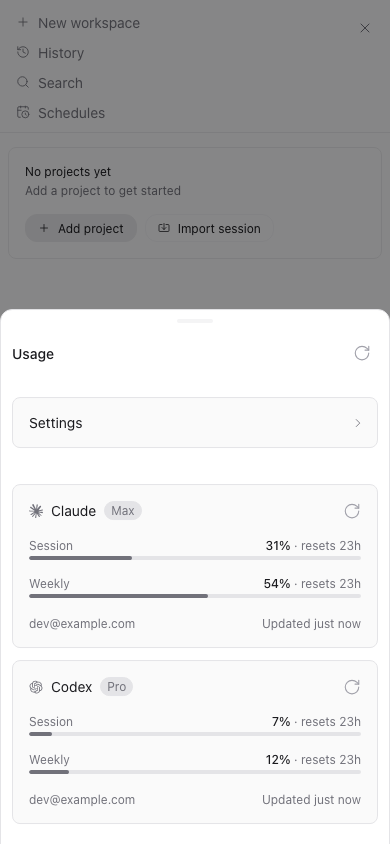
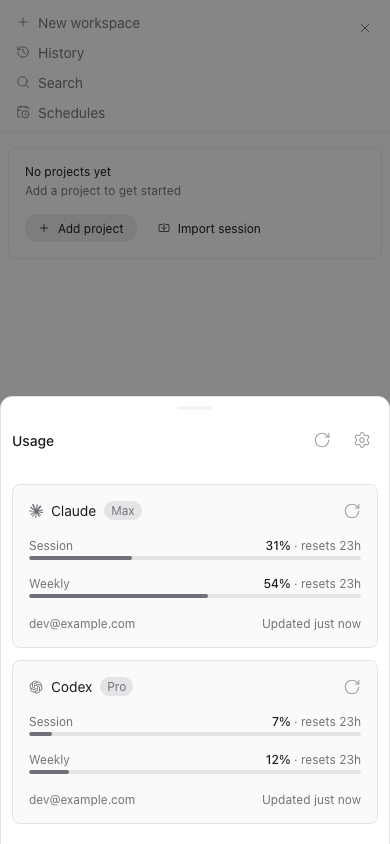
fix(usage): restore settings cog with a fitted popover and compact sheet
Keep shared Usage preferences in the title controls on every surface. Settings rows use the menu surface directly, avoiding the trailing margin and duplicate card border from the page layout.

Changed region(s): [[0.0, 0.3389, 1.0, 0.5545]]

diff --git a/packages/app/e2e/browser/usage-screen.spec.ts b/packages/app/e2e/browser/usage-screen.spec.ts
@@ -27,6 +27,8 @@ import {
   expectPinnedUsage,
   pinRow,
   openUsageOptions,
+  closeUsageOptions,
+  expectUsageOptionsFitContent,
   showUsageAs,
   refreshAllUsage,
   togglePin,
@@ -243,7 +245,7 @@ test.describe("usage screen", () => {
       page.getByTestId(`usage-host-${serverId}`).getByText(/^Update .+ to see usage$/),
     ).toBeVisible({ timeout: 10_000 });
     await qaScreenshot(page, "phase7-usage-update-host");
-    await expect(page.getByTestId("usage-options-toggle")).toHaveCount(0);
+    await expect(page.getByTestId("usage-options-menu")).toHaveCount(0);
     await expect(page.getByTestId("usage-refresh-all")).toHaveCount(0);
     expect(usage.listRequests()).toHaveLength(0);
   });
@@ -426,7 +428,7 @@ for (const theme of ["light", "dark"] as const) {
     desktop: { width: 1440, height: 900 },
     compact: { width: 390, height: 844 },
   })) {
-    test(`inline Usage Settings ${size} ${theme}`, async ({ page }, testInfo) => {
+    test(`Usage Settings cog ${size} ${theme}`, async ({ page }, testInfo) => {
       test.setTimeout(120_000);
       await page.addInitScript((value) => {
         const key = "@paseo:app-settings";
@@ -440,42 +442,24 @@ for (const theme of ["light", "dark"] as const) {
       await page.goto("/usage");
       const screen = page.getByTestId(`usage-host-${getServerId()}`);
       await expect(screen.getByText("Claude", { exact: true })).toBeVisible({ timeout: 30_000 });
-      const settings = screen.getByRole("button", { name: "Settings", exact: true });
-      const chevron = settings.locator("svg").locator("../..");
+      const settings = page.getByTestId("usage-options-menu");
       await expect(settings).toHaveAccessibleName("Settings");
-      await expect(settings).toHaveAttribute("aria-expanded", "false");
-      await expect(chevron).toHaveCSS("transform", "none");
-      await expect(screen.getByTestId("usage-display-used")).toHaveCount(0);
-      await expect(
-        pinRow(screen, "Claude", "Weekly").getByTestId("usage-pin-glyph-pinned"),
-      ).toHaveCSS("opacity", "1");
-      await captureSettingsState(page, testInfo, `${size}-${theme}-collapsed`);
+      await expect(page.getByTestId("usage-display-used")).toHaveCount(0);
+      await captureSettingsState(page, testInfo, `${size}-${theme}-cog`);
 
-      await togglePin(screen, "Claude", "Weekly");
-      await page.mouse.move(0, viewport.height - 1);
-      await expect(
-        pinRow(screen, "Claude", "Weekly").getByTestId("usage-pin-glyph-unpinned"),
-      ).toHaveCSS("opacity", "1");
       await openUsageOptions(page);
-      await expect(settings).toHaveAttribute("aria-expanded", "true");
-      await expect(chevron).toHaveCSS("transform", "matrix(0, 1, -1, 0, 0, 0)");
-      await expect(screen.getByText("Pinned windows show in the sidebar footer")).toBeVisible();
-      await expect(screen.getByTestId("usage-display-used")).toHaveAttribute(
-        "aria-selected",
-        "true",
-      );
-      await settings.blur();
-      await page.mouse.move(0, viewport.height - 1);
-      await captureSettingsState(page, testInfo, `${size}-${theme}-expanded`);
+      await expectUsageOptionsFitContent(page);
+      await expect(page.getByText("Pinned windows show in the sidebar footer")).toBeVisible();
+      await expect(page.getByTestId("usage-display-used")).toHaveAttribute("aria-selected", "true");
+      await captureSettingsState(page, testInfo, `${size}-${theme}-settings`);
       await showUsageAs(page, "remaining");
       await expect(screen.getByText("69% left")).toBeVisible();
       await showUsageAs(page, "used");
       await expect(pinRow(screen, "Claude", "Session")).toHaveAccessibleName(
         /^Pin Claude Session, 31% · resets /,
       );
-      await settings.click();
-      await expect(settings).toHaveAttribute("aria-expanded", "false");
-      await expect(screen.getByTestId("usage-display-used")).toHaveCount(0);
+      await openUsageOptions(page);
+      await closeUsageOptions(page);
       await refreshAllUsage(page);
       await expect.poll(() => forcedRefreshes(usage)).toEqual([{ forceRefresh: true }]);
     });

diff --git a/packages/app/src/usage/options.tsx b/packages/app/src/usage/options.tsx
@@ -1,14 +1,15 @@
 import { View } from "react-native";
-import {
-  SettingsCard,
-  SettingsCollapsibleRow,
-  SettingsRow,
-  SettingsSwitch,
-} from "@/components/settings";
+import { Settings } from "lucide-react-native";
+import { withUnistyles } from "react-native-unistyles";
+import { DropdownMenu, DropdownMenuContent } from "@/components/ui/dropdown-menu";
+import { extraMutedIconColorMapping } from "@/components/ui/icon-button-chrome";
+import { ToolbarButton, paneContentToolbarIconSize } from "@/components/ui/pane-content-toolbar";
+import { useIsCompactFormFactor } from "@/constants/layout";
+import { SettingsRow, SettingsSwitch } from "@/components/settings";
 import { SegmentedControl, type SegmentedControlOption } from "@/components/ui/segmented-control";
 import { settingsStyles } from "@/styles/settings";
 import { usageCopy } from "./copy";
-import type { UsageDisplay } from "./display";
+import { useUsagePreferences } from "./display";
 import { useUsageInSidebar } from "./in-sidebar";
 import type { UsageDisplayAs } from "./preferences";
 
@@ -17,16 +18,33 @@ const DISPLAY_AS_OPTIONS: SegmentedControlOption<UsageDisplayAs>[] = [
   { value: "remaining", label: usageCopy.displayRemaining, testID: "usage-display-remaining" },
 ];
 
-/**
- * The usage options, folded above the reports: whether the sidebar shows the summary (the same
- * switch as Settings > Sidebar) and whether percents read as used or remaining.
- */
-export function UsageOptions({ display }: { display: UsageDisplay }) {
+const ThemedSettings = withUnistyles(Settings);
+
+/** The shared usage preferences, opened from a cog as a popover or compact sheet. */
+export function UsageOptions() {
+  const compact = useIsCompactFormFactor();
+  const { display } = useUsagePreferences();
   const { inSidebar, setInSidebar } = useUsageInSidebar();
   return (
-    <View style={settingsStyles.section}>
-      <SettingsCard>
-        <SettingsCollapsibleRow label={usageCopy.options} testID="usage-options">
+    <DropdownMenu compactMode="sheet">
+      <ToolbarButton
+        kind="menu"
+        label={usageCopy.options}
+        compact={compact}
+        testID="usage-options-menu"
+      >
+        <ThemedSettings
+          size={paneContentToolbarIconSize(compact)}
+          uniProps={extraMutedIconColorMapping}
+        />
+      </ToolbarButton>
+      <DropdownMenuContent
+        align="end"
+        width={340}
+        sheetTitle={usageCopy.options}
+        testID="usage-options-surface"
+      >
+        <View testID="usage-options-fields">
           <SettingsSwitch
             label={usageCopy.showInSidebar}
             hint={usageCopy.showInSidebarHint}
@@ -34,17 +52,19 @@ export function UsageOptions({ display }: { display: UsageDisplay }) {
             onValueChange={setInSidebar}
             testID="usage-show-in-sidebar"
           />
-          <SettingsRow label={usageCopy.displayAs}>
-            <SegmentedControl
-              options={DISPLAY_AS_OPTIONS}
-              value={display.displayAs}
-              onValueChange={display.setDisplayAs}
-              size="sm"
-              testID="usage-display-as"
-            />
-          </SettingsRow>
-        </SettingsCollapsibleRow>
-      </SettingsCard>
-    </View>
+          <View style={settingsStyles.rowBorder}>
+            <SettingsRow label={usageCopy.displayAs}>
+              <SegmentedControl
+                options={DISPLAY_AS_OPTIONS}
+                value={display.displayAs}
+                onValueChange={display.setDisplayAs}
+                size="sm"
+                testID="usage-display-as"
+              />
+            </SettingsRow>
+          </View>
+        </View>
+      </DropdownMenuContent>
+    </DropdownMenu>
   );
 }

diff --git a/packages/app/e2e/browser/usage-sidebar-item.spec.ts b/packages/app/e2e/browser/usage-sidebar-item.spec.ts
@@ -15,6 +15,7 @@ import { installUsageReportsFixture } from "../support/helpers/usage-reports";
 import {
   claudeAndCodexReports,
   closeUsageSheet,
+  closeUsageOptions,
   openUsageSheetFromIcon,
   expectNoUsageItem,
   expectOnUsageScreen,
@@ -218,25 +219,22 @@ test.describe("Usage item", () => {
       await expect(pinRow(sheet, "Claude", "Session")).toHaveAccessibleName(
         /^Pin Claude Session, \d+% left( · .+)?$/,
       );
-      // The sheet carries the same inline Settings row and title-row Refresh all.
-      await expect(sheet.getByTestId("usage-options-toggle")).toHaveAttribute(
-        "aria-expanded",
-        "false",
-      );
+      // Settings opens a second sheet; closing it restores the Usage sheet underneath.
+      await expect(page.locator('[data-testid="usage-options-menu"]:visible')).toBeVisible();
       await expect(page.locator('[data-testid="usage-refresh-all"]:visible')).toBeVisible();
       await openUsageOptions(page);
-      await expect(sheet.getByTestId("usage-display-remaining")).toHaveAttribute(
+      await expect(page.getByTestId("usage-display-remaining")).toHaveAttribute(
         "aria-selected",
         "true",
       );
       await qaScreenshot(page, "compact-settings-expanded");
-      await sheet.getByTestId("usage-options-toggle").click();
+      await closeUsageOptions(page);
       await expect(sheet.getByTestId("usage-display-used")).toHaveCount(0);
       await expect(sheet).toBeVisible();
       await expect(page).not.toHaveURL(/\/usage$/);
       await waitForSettledPosition(sheet);
       const sheetBox = (await sheet.boundingBox())!;
-      // Settings adds a row; the sheet still reserves the top 20% as its backdrop.
+      // The Usage sheet reserves the top 20% as its backdrop.
       expect(sheetBox.y).toBeGreaterThanOrEqual(COMPACT.height * 0.2);
       expect(sheetBox.width).toBeGreaterThan(COMPACT.width * 0.8);
       await qaScreenshot(page, "compact-sheet");
@@ -258,7 +256,7 @@ test.describe("Usage item", () => {
         "true",
       );
       await qaScreenshot(page, "usage-settings-expanded");
-      await page.getByTestId("usage-options-toggle").click();
+      await closeUsageOptions(page);
     });
 
     await test.step("the Settings usage section shares the pins and the toggle", async () => {

diff --git a/packages/app/e2e/support/helpers/usage-sidebar-item.ts b/packages/app/e2e/support/helpers/usage-sidebar-item.ts
@@ -224,13 +224,37 @@ export async function setSummaryInSidebar(page: Page, on: boolean): Promise<void
 export async function expectSummaryInSidebar(page: Page, on: boolean): Promise<void> {
   await openUsageOptions(page);
   await expect(summaryInSidebarSwitch(page)).toBeChecked({ checked: on });
+  await closeUsageOptions(page);
 }
 
-/** Expand the inline Settings row when its controls are folded. */
+/** Open the cog's settings popover or compact sheet. */
 export async function openUsageOptions(page: Page): Promise<void> {
-  const toggle = visible(page, "usage-options-toggle");
-  if ((await toggle.getAttribute("aria-expanded")) === "false") await toggle.click();
+  if (!(await visible(page, "usage-display-used").isVisible())) {
+    await visible(page, "usage-options-menu").click();
+  }
   await expect(visible(page, "usage-display-used")).toBeVisible();
+}
+
+export function usageOptionsSurface(page: Page): Locator {
+  return page
+    .locator(
+      '[data-testid="usage-options-surface"]:visible, [data-testid="usage-options-surface-content"]:visible',
+    )
+    .first();
+}
+
+export async function expectUsageOptionsFitContent(page: Page): Promise<void> {
+  await waitForSettledPosition(usageOptionsSurface(page));
+  const surface = await usageOptionsSurface(page).boundingBox();
+  const fields = await page.getByTestId("usage-options-fields").boundingBox();
+  if (!surface || !fields) throw new Error("Settings must be visible before measuring its fit.");
+  expect(surface.y + surface.height - (fields.y + fields.height)).toBeLessThanOrEqual(10);
+}
+
+export async function closeUsageOptions(page: Page): Promise<void> {
+  await waitForSettledPosition(usageOptionsSurface(page));
+  await page.mouse.click(0, 0);
+  await expect(page.getByTestId("usage-display-used")).toHaveCount(0);
 }
 
 export async function showUsageAs(page: Page, displayAs: "used" | "remaining") {
@@ -240,6 +264,7 @@ export async function showUsageAs(page: Page, displayAs: "used" | "remaining") {
     "aria-selected",
     "true",
   );
+  await closeUsageOptions(page);
 }
 
 export async function refreshAllUsage(page: Page): Promise<void> {

diff --git a/packages/app/src/usage/controls.tsx b/packages/app/src/usage/controls.tsx
@@ -3,6 +3,7 @@ import { StyleSheet } from "react-native-unistyles";
 import { HostFilter } from "@/components/hosts/host-filter";
 import { useMemo, type ReactElement } from "react";
 import { UsageRefreshButton } from "./refresh-button";
+import { UsageOptions } from "./options";
 import type { UsageHost } from "./model";
 import { useHostUsage } from "./queries";
 import type { UsageView } from "./types";
@@ -16,7 +17,7 @@ export interface UsageHostSelection {
 
 /**
  * The controls on the right of every usage title row: the host filter when there is more than one
- * host, and Refresh all. A host that cannot report usage keeps only the host filter.
+ * host, Refresh all, and the Settings cog. A host that cannot report usage keeps only the host filter.
  */
 export function UsageControls({
   view,
@@ -41,7 +42,10 @@ export function UsageControls({
         />
       ) : null}
       {view.kind === "unavailable" ? null : (
-        <UsageRefreshButton busy={busy} onRefresh={onRefresh} />
+        <>
+          <UsageRefreshButton busy={busy} onRefresh={onRefresh} />
+          <UsageOptions />
+        </>
       )}
     </View>
   );

diff --git a/packages/app/src/usage/usage-screen.tsx b/packages/app/src/usage/usage-screen.tsx
@@ -8,7 +8,6 @@ import { usageCopy } from "./copy";
 import { useUsagePreferences } from "./display";
 import { useUsageHostSelection } from "./hosts";
 import type { UsageHost } from "./model";
-import { UsageOptions } from "./options";
 import { UsageBody, UsageMessage } from "./usage-section";
 
 // The screen is reachable by URL, so there may be no history to go back to.
@@ -66,7 +65,6 @@ function HostUsage({
   return (
     <UsagePage actions={controls}>
       <View testID={`usage-host-${serverId}`}>
-        {view.kind === "unavailable" ? null : <UsageOptions display={display} />}
         <UsageBody serverId={serverId} view={view} display={display} onRefresh={refresh} />
       </View>
     </UsagePage>

diff --git a/packages/app/src/usage/sidebar-item.tsx b/packages/app/src/usage/sidebar-item.tsx
@@ -36,7 +36,6 @@ import {
   type PinnedUsageSource,
 } from "./pinned";
 import type { UsageHost } from "./model";
-import { UsageOptions } from "./options";
 import { UsageBody } from "./usage-section";
 
 /** Each summary window with data on the usage host, under its source; empty while none has. */
@@ -147,7 +146,6 @@ function HostUsageSheet({
       testID="sidebar-usage-sheet"
     >
       <View style={styles.sheetBody} testID="usage-expanded">
-        {view.kind === "unavailable" ? null : <UsageOptions display={display} />}
         <UsageBody serverId={serverId} view={view} display={display} onRefresh={refresh} />
       </View>
     </SidebarPopoverSurface>

diff --git a/packages/app/e2e/browser/usage-settings.spec.ts b/packages/app/e2e/browser/usage-settings.spec.ts
@@ -95,8 +95,8 @@ test.describe("usage settings", () => {
     await expect(card.getByText("2026-12-31", { exact: true })).toBeVisible();
     await expect(card.getByText("Gamma auth expired", { exact: true })).toBeVisible();
 
-    // Percentages now live on the Usage screen, and still apply to the host section.
-    await expect(card.getByTestId("usage-options-toggle")).toHaveCount(0);
+    // The shared percentages setting applies to the host section.
+    await expect(page.getByTestId("usage-options-menu")).toBeVisible();
     const hostUsageUrl = page.url();
     await page.goto("/usage");
     await showUsageAs(page, "remaining");
